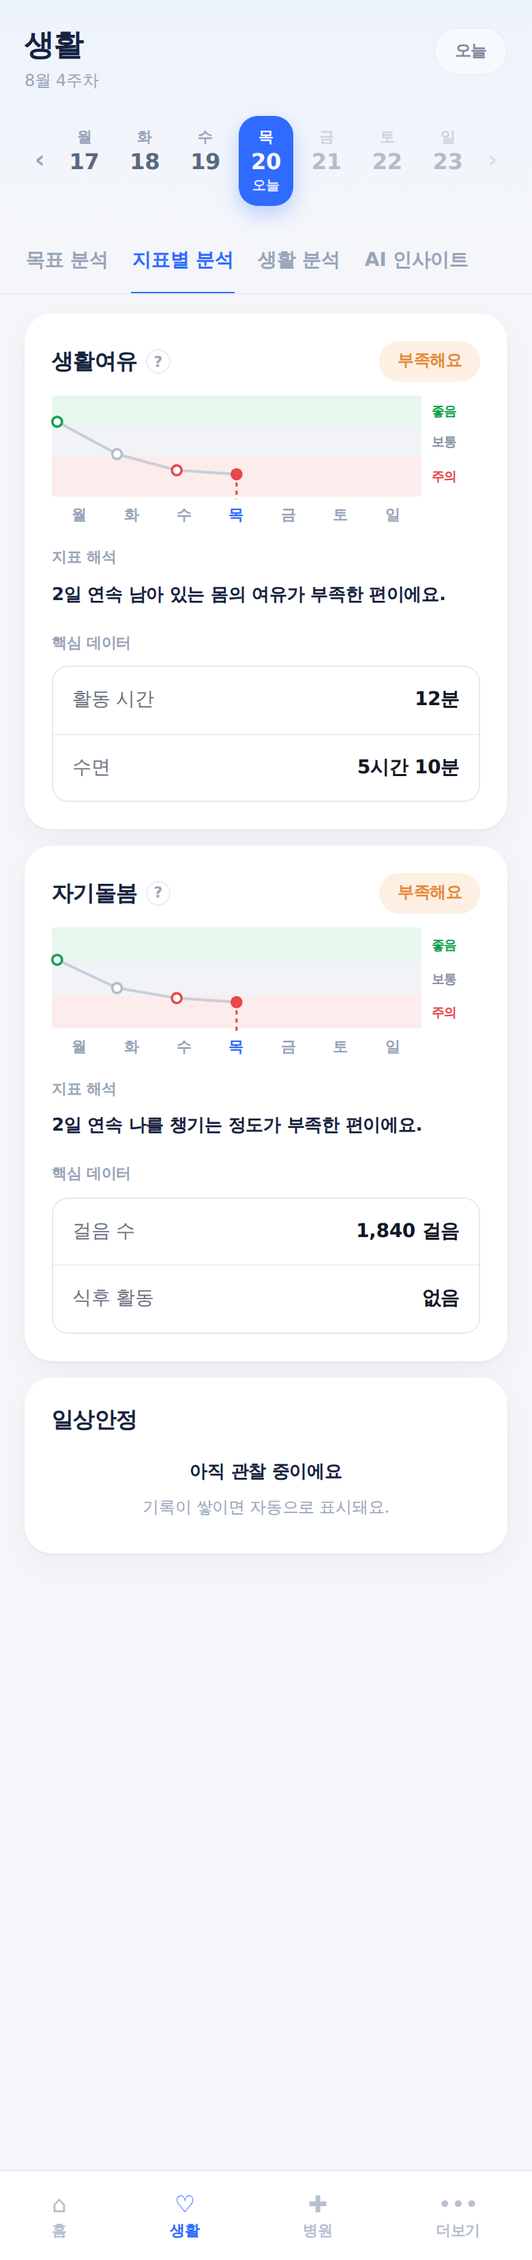
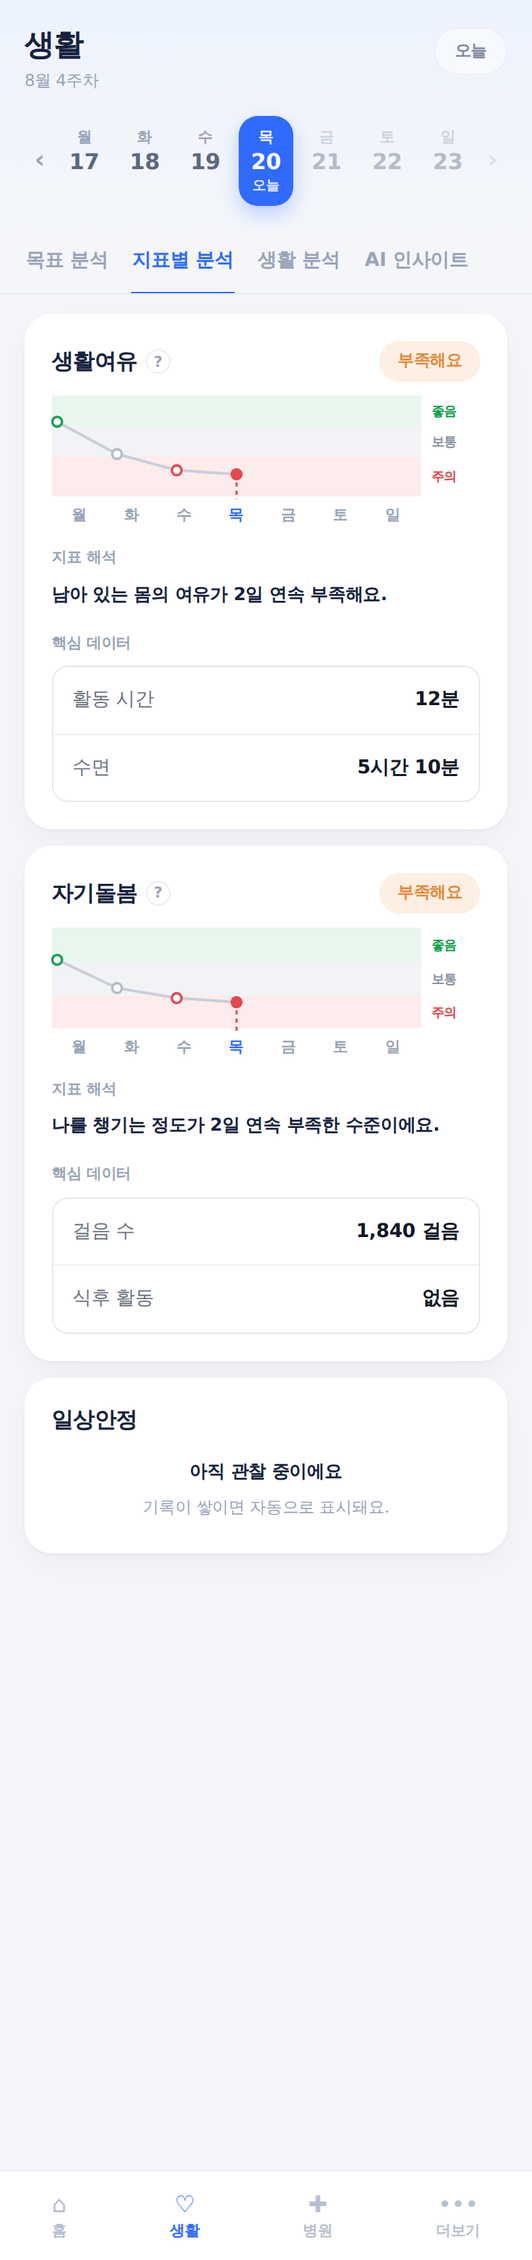
연속 문장을 '{주어} N일 연속 {서술}' 형태로 변경

diff --git a/wip-metric-rules.html b/wip-metric-rules.html
@@ -68,7 +68,7 @@ ul.rules.no li::before{content:'✕';color:var(--low)}
     <tr><th>상황</th><th>형식</th></tr>
     <tr><td class="k">전날 기록 없음</td><td><code>{상태}.</code></td></tr>
     <tr><td class="k">구간이 올라감 · 내려감</td><td><code>{이유} {변화}.</code></td></tr>
-    <tr><td class="k">같은 구간 2일 이상</td><td><code>{N}일 연속 {상태}.</code></td></tr>
+    <tr><td class="k">같은 구간 2일 이상</td><td><code>{주어} {N}일 연속 {서술}.</code> (예: 남아 있는 몸의 여유가 2일 연속 보통 수준이에요.)</td></tr>
     <tr><td class="k">주의 3일 이상</td><td><code>{이어진 이유 · N일 연속 이어지면서} {상태}.</code></td></tr>
   </table>
   <h3>함께 지키는 규칙</h3>
@@ -86,7 +86,7 @@ ul.rules.no li::before{content:'✕';color:var(--low)}
   </table>
   <table style="margin-top:8px">
     <tr><th>예 · 생활여유</th><th>전날 → 선택일</th><th>배지</th><th>해석</th></tr>
-    <tr><td class="k">점수만 오름</td><td>58점(보통) → 62점(보통)</td><td>보통</td><td>2일 연속 남아 있는 몸의 여유가 보통이에요.</td></tr>
+    <tr><td class="k">점수만 오름</td><td>58점(보통) → 62점(보통)</td><td>보통</td><td>남아 있는 몸의 여유가 2일 연속 보통 수준이에요.</td></tr>
     <tr><td class="k">구간이 바뀜</td><td>38점(주의) → 42점(보통)</td><td>보통</td><td>활동량이 늘어나면서 몸의 여유가 나아지고 있어요.</td></tr>
   </table>
   <ul class="rules" style="margin-top:6px">
@@ -196,20 +196,20 @@ ul.rules.no li::before{content:'✕';color:var(--low)}
       <p><span class="tag t-up">올라감</span>움직임이 하루에 고르게 나뉘면서 몸의 여유가 나아지고 있어요.</p>
       <p><span class="tag t-down">내려감</span>활동이 한때에 몰리면서 몸의 여유가 감소하고 있어요.</p>
       <p><span class="tag t-down">내려감</span>활동이 많아 부담이 커지면서 몸의 여유가 감소하고 있어요.</p>
-      <p><span class="tag t-same">같음</span>2일 연속 남아 있는 몸의 여유가 보통이에요.</p>
+      <p><span class="tag t-same">같음</span>남아 있는 몸의 여유가 2일 연속 보통 수준이에요.</p>
       <p><span class="tag t-same">주의 지속</span>수면이 짧은 날이 3일 연속 이어지면서 남아 있는 몸의 여유가 부족한 편이에요.</p>
     </div>
     <div><h4>자기돌봄</h4>
       <p><span class="tag t-up">올라감</span>식후 활동이 이어지면서 나를 챙기는 정도가 나아지고 있어요.</p>
       <p><span class="tag t-up">올라감</span>걸음 수가 늘어나면서 나를 챙기는 정도가 나아지고 있어요.</p>
       <p><span class="tag t-down">내려감</span>걸음 수가 줄어들면서 나를 챙기는 정도가 감소하고 있어요.</p>
-      <p><span class="tag t-same">같음</span>2일 연속 나를 챙기는 정도가 좋은 편이에요.</p>
+      <p><span class="tag t-same">같음</span>나를 챙기는 정도가 2일 연속 좋은 수준이에요.</p>
       <p><span class="tag t-same">주의 지속</span>식후 활동이 적은 날이 3일 연속 이어지면서 나를 챙기는 정도가 부족한 편이에요.</p>
     </div>
     <div><h4>일상안정</h4>
       <p><span class="tag t-up">올라감</span>걸음 수가 늘어나면서 일상의 균형이 나아지고 있어요.</p>
             <p><span class="tag t-down">내려감</span>걸음 수가 줄어들면서 일상의 균형이 흔들리고 있어요.</p>
-      <p><span class="tag t-same">같음</span>2일 연속 일상의 균형이 보통이에요.</p>
+      <p><span class="tag t-same">같음</span>일상의 균형이 2일 연속 보통 수준이에요.</p>
     </div>
   </div>
 </section>
@@ -219,11 +219,11 @@ ul.rules.no li::before{content:'✕';color:var(--low)}
   <h3>① 회복 중인 주 · 데이터</h3>
   <table><tr><th>요일</th><th>수면</th><th>활동 시간</th><th>활동 분산</th><th>걸음 수</th><th>식후 활동</th><th>취침 시각</th></tr><tr><td class="k">월</td><td>6시간 50분</td><td>30분</td><td>4칸 · 40%</td><td>6,900</td><td>걷기 1회</td><td>23:40</td></tr><tr><td class="k">화</td><td>5시간 40분</td><td>18분</td><td>2칸 · 70%</td><td>4,100</td><td>걷기 1회</td><td>00:50</td></tr><tr><td class="k">수</td><td>6시간 30분</td><td>34분</td><td>5칸 · 30%</td><td>7,800</td><td>조깅 1회</td><td>23:20</td></tr><tr><td class="k">목</td><td>7시간 23분</td><td>42분</td><td>6칸 · 25%</td><td>7,340</td><td>걷기 1회</td><td>23:10</td></tr></table>
   <h3>① 회복 중인 주 · 지표 해석</h3>
-  <table><tr><th>요일</th><th>생활여유</th><th>자기돌봄</th><th>일상안정</th></tr><tr><td class="k">월</td><td><span class="tag t-same">보통</span>남아 있는 몸의 여유가 보통이에요.</td><td><span class="tag t-same">보통</span>나를 챙기는 정도가 보통이에요.</td><td><span class="tag t-same">보통</span>일상의 균형이 보통이에요.</td></tr><tr><td class="k">화</td><td><span class="tag t-down">주의</span>수면 시간이 줄어들면서 몸의 여유가 감소하고 있어요.</td><td><span class="tag t-down">주의</span>걸음 수가 줄어들면서 나를 챙기는 정도가 감소하고 있어요.</td><td><span class="tag t-same">보통</span>2일 연속 일상의 균형이 보통이에요.</td></tr><tr><td class="k">수</td><td><span class="tag t-same">보통</span>움직임이 하루에 고르게 나뉘면서 몸의 여유가 나아지고 있어요.</td><td><span class="tag t-same">보통</span>걸음 수가 늘어나면서 나를 챙기는 정도가 나아지고 있어요.</td><td><span class="tag t-up">좋음</span>걸음 수가 늘어나면서 일상의 균형이 나아지고 있어요.</td></tr><tr><td class="k">목</td><td><span class="tag t-up">좋음</span>수면 시간이 늘어나면서 몸의 여유가 나아지고 있어요.</td><td><span class="tag t-same">보통</span>2일 연속 나를 챙기는 정도가 보통이에요.</td><td><span class="tag t-up">좋음</span>2일 연속 일상의 균형이 안정적인 편이에요.</td></tr></table>
+  <table><tr><th>요일</th><th>생활여유</th><th>자기돌봄</th><th>일상안정</th></tr><tr><td class="k">월</td><td><span class="tag t-same">보통</span>남아 있는 몸의 여유가 보통이에요.</td><td><span class="tag t-same">보통</span>나를 챙기는 정도가 보통이에요.</td><td><span class="tag t-same">보통</span>일상의 균형이 보통이에요.</td></tr><tr><td class="k">화</td><td><span class="tag t-down">주의</span>수면 시간이 줄어들면서 몸의 여유가 감소하고 있어요.</td><td><span class="tag t-down">주의</span>걸음 수가 줄어들면서 나를 챙기는 정도가 감소하고 있어요.</td><td><span class="tag t-same">보통</span>일상의 균형이 2일 연속 보통 수준이에요.</td></tr><tr><td class="k">수</td><td><span class="tag t-same">보통</span>움직임이 하루에 고르게 나뉘면서 몸의 여유가 나아지고 있어요.</td><td><span class="tag t-same">보통</span>걸음 수가 늘어나면서 나를 챙기는 정도가 나아지고 있어요.</td><td><span class="tag t-up">좋음</span>걸음 수가 늘어나면서 일상의 균형이 나아지고 있어요.</td></tr><tr><td class="k">목</td><td><span class="tag t-up">좋음</span>수면 시간이 늘어나면서 몸의 여유가 나아지고 있어요.</td><td><span class="tag t-same">보통</span>나를 챙기는 정도가 2일 연속 보통 수준이에요.</td><td><span class="tag t-up">좋음</span>일상의 균형이 2일 연속 안정적이에요.</td></tr></table>
   <h3>② 컨디션이 떨어진 주 · 데이터</h3>
   <table><tr><th>요일</th><th>수면</th><th>활동 시간</th><th>활동 분산</th><th>걸음 수</th><th>식후 활동</th><th>취침 시각</th></tr><tr><td class="k">월</td><td>7시간 12분</td><td>52분</td><td>5칸 · 30%</td><td>8,120</td><td>걷기 1회</td><td>23:10</td></tr><tr><td class="k">화</td><td>5시간 54분</td><td>26분</td><td>4칸 · 40%</td><td>4,260</td><td>없음</td><td>23:30</td></tr><tr><td class="k">수</td><td>5시간 18분</td><td>15분</td><td>2칸 · 70%</td><td>2,150</td><td>없음</td><td>00:40</td></tr><tr><td class="k">목</td><td>5시간 10분</td><td>12분</td><td>1칸 · 100%</td><td>1,840</td><td>없음</td><td>01:30</td></tr></table>
   <h3>② 컨디션이 떨어진 주 · 지표 해석</h3>
-  <table><tr><th>요일</th><th>생활여유</th><th>자기돌봄</th><th>일상안정</th></tr><tr><td class="k">월</td><td><span class="tag t-up">좋음</span>남아 있는 몸의 여유가 충분한 편이에요.</td><td><span class="tag t-up">좋음</span>나를 챙기는 정도가 좋은 편이에요.</td><td><span class="tag t-up">좋음</span>일상의 균형이 안정적인 편이에요.</td></tr><tr><td class="k">화</td><td><span class="tag t-same">보통</span>수면 시간이 줄어들면서 몸의 여유가 감소하고 있어요.</td><td><span class="tag t-same">보통</span>걸음 수가 줄어들면서 나를 챙기는 정도가 감소하고 있어요.</td><td><span class="tag t-same">보통</span>걸음 수가 줄어들면서 일상의 균형이 흔들리고 있어요.</td></tr><tr><td class="k">수</td><td><span class="tag t-down">주의</span>활동이 한때에 몰리면서 몸의 여유가 감소하고 있어요.</td><td><span class="tag t-down">주의</span>걸음 수가 줄어들면서 나를 챙기는 정도가 감소하고 있어요.</td><td><span class="tag t-down">주의</span>잠드는 시간이 불규칙해지면서 일상의 균형이 흔들리고 있어요.</td></tr><tr><td class="k">목</td><td><span class="tag t-down">주의</span>2일 연속 남아 있는 몸의 여유가 부족한 편이에요.</td><td><span class="tag t-down">주의</span>2일 연속 나를 챙기는 정도가 부족한 편이에요.</td><td><span class="tag t-down">주의</span>2일 연속 일상의 균형이 불안정한 편이에요.</td></tr></table>
+  <table><tr><th>요일</th><th>생활여유</th><th>자기돌봄</th><th>일상안정</th></tr><tr><td class="k">월</td><td><span class="tag t-up">좋음</span>남아 있는 몸의 여유가 충분한 편이에요.</td><td><span class="tag t-up">좋음</span>나를 챙기는 정도가 좋은 편이에요.</td><td><span class="tag t-up">좋음</span>일상의 균형이 안정적인 편이에요.</td></tr><tr><td class="k">화</td><td><span class="tag t-same">보통</span>수면 시간이 줄어들면서 몸의 여유가 감소하고 있어요.</td><td><span class="tag t-same">보통</span>걸음 수가 줄어들면서 나를 챙기는 정도가 감소하고 있어요.</td><td><span class="tag t-same">보통</span>걸음 수가 줄어들면서 일상의 균형이 흔들리고 있어요.</td></tr><tr><td class="k">수</td><td><span class="tag t-down">주의</span>활동이 한때에 몰리면서 몸의 여유가 감소하고 있어요.</td><td><span class="tag t-down">주의</span>걸음 수가 줄어들면서 나를 챙기는 정도가 감소하고 있어요.</td><td><span class="tag t-down">주의</span>잠드는 시간이 불규칙해지면서 일상의 균형이 흔들리고 있어요.</td></tr><tr><td class="k">목</td><td><span class="tag t-down">주의</span>남아 있는 몸의 여유가 2일 연속 부족해요.</td><td><span class="tag t-down">주의</span>나를 챙기는 정도가 2일 연속 부족한 수준이에요.</td><td><span class="tag t-down">주의</span>일상의 균형이 2일 연속 불안정해요.</td></tr></table>
   <h3>읽는 법</h3>
   <ul class="rules">
     <li>회복 주 수요일: 활동 분산 2칸 → 5칸 → ‘움직임이 하루에 고르게 나뉘면서’</li>
@@ -300,7 +300,7 @@ ul.rules.no li::before{content:'✕';color:var(--low)}
 4. cur == prev (구간 같음)
    N = 선택일부터 거꾸로 같은 band 가 이어진 날 수
        (none · 기록 없는 날에서 끊음, 지난 주까지 셈)
-   N ≥ 2 → "{N}일 연속 {상태}."
+   N ≥ 2 → "{주어} {N}일 연속 {연속 서술}." (예: 남아 있는 몸의 여유가 2일 연속 보통 수준이에요)
    cur == low 이고 N ≥ 3 →
      그 N일 동안 매일 '낮음'인 재료가 있으면
      "{재료} … N일 연속 이어지면서 {상태}." (앞의 'N일 연속'은 생략)
@@ -345,7 +345,7 @@ button.cnt.on{background:var(--brand);color:#fff;border-color:var(--brand)}
 </style>
 <script>
 (function(){
-const D={"생활여유": {"state": ["남아 있는 몸의 여유가 충분한 편이에요.", "남아 있는 몸의 여유가 보통이에요.", "남아 있는 몸의 여유가 부족한 편이에요."], "streak": ["N일 연속 남아 있는 몸의 여유가 충분한 편이에요.", "N일 연속 남아 있는 몸의 여유가 보통이에요.", "N일 연속 남아 있는 몸의 여유가 부족한 편이에요."], "lowr": ["수면이 짧은 날이 N일 연속 이어지면서 남아 있는 몸의 여유가 부족한 편이에요.", "활동량이 낮은 날이 N일 연속 이어지면서 남아 있는 몸의 여유가 부족한 편이에요.", "활동이 한때에 몰리는 날이 N일 연속 이어지면서 남아 있는 몸의 여유가 부족한 편이에요.", "활동이 많은 날이 N일 연속 이어지면서 남아 있는 몸의 여유가 부족한 편이에요."], "up": ["수면 시간이 늘어나면서 몸의 여유가 나아지고 있어요.", "활동량이 늘어나면서 몸의 여유가 나아지고 있어요.", "움직임이 하루에 고르게 나뉘면서 몸의 여유가 나아지고 있어요.", "몸의 여유가 나아지고 있어요. (이유 생략)"], "down": ["수면 시간이 줄어들면서 몸의 여유가 감소하고 있어요.", "활동량이 줄어들면서 몸의 여유가 감소하고 있어요.", "활동이 한때에 몰리면서 몸의 여유가 감소하고 있어요.", "활동이 많아 부담이 커지면서 몸의 여유가 감소하고 있어요.", "몸의 여유가 감소하고 있어요. (이유 생략)"]}, "자기돌봄": {"state": ["나를 챙기는 정도가 좋은 편이에요.", "나를 챙기는 정도가 보통이에요.", "나를 챙기는 정도가 부족한 편이에요."], "streak": ["N일 연속 나를 챙기는 정도가 좋은 편이에요.", "N일 연속 나를 챙기는 정도가 보통이에요.", "N일 연속 나를 챙기는 정도가 부족한 편이에요."], "lowr": ["걸음 수가 적은 날이 N일 연속 이어지면서 나를 챙기는 정도가 부족한 편이에요.", "식후 활동이 적은 날이 N일 연속 이어지면서 나를 챙기는 정도가 부족한 편이에요.", "오래 쉰 뒤 움직이지 않은 날이 N일 연속 이어지면서 나를 챙기는 정도가 부족한 편이에요.", "활동이 한때에 몰리는 날이 N일 연속 이어지면서 나를 챙기는 정도가 부족한 편이에요."], "up": ["걸음 수가 늘어나면서 나를 챙기는 정도가 나아지고 있어요.", "식후 활동이 이어지면서 나를 챙기는 정도가 나아지고 있어요.", "오래 쉬다가 다시 움직이면서 나를 챙기는 정도가 나아지고 있어요.", "움직임이 하루에 고르게 나뉘면서 나를 챙기는 정도가 나아지고 있어요.", "나를 챙기는 정도가 나아지고 있어요. (이유 생략)"], "down": ["걸음 수가 줄어들면서 나를 챙기는 정도가 감소하고 있어요.", "식후 활동이 줄어들면서 나를 챙기는 정도가 감소하고 있어요.", "오래 쉰 뒤 움직임이 줄어들면서 나를 챙기는 정도가 감소하고 있어요.", "활동이 한때에 몰리면서 나를 챙기는 정도가 감소하고 있어요.", "나를 챙기는 정도가 감소하고 있어요. (이유 생략)"]}, "일상안정": {"state": ["일상의 균형이 안정적인 편이에요.", "일상의 균형이 보통이에요.", "일상의 균형이 불안정한 편이에요."], "streak": ["N일 연속 일상의 균형이 안정적인 편이에요.", "N일 연속 일상의 균형이 보통이에요.", "N일 연속 일상의 균형이 불안정한 편이에요."], "lowr": ["걸음 수가 적은 날이 N일 연속 이어지면서 일상의 균형이 불안정한 편이에요.", "활동량이 낮은 날이 N일 연속 이어지면서 일상의 균형이 불안정한 편이에요.", "운동 공백이 N일 연속 이어지면서 일상의 균형이 불안정한 편이에요.", "식후 활동을 놓친 날이 N일 연속 이어지면서 일상의 균형이 불안정한 편이에요.", "움직이지 않은 날이 N일 연속 이어지면서 일상의 균형이 불안정한 편이에요.", "잠드는 시간이 불규칙한 날이 N일 연속 이어지면서 일상의 균형이 불안정한 편이에요."], "up": ["걸음 수가 늘어나면서 일상의 균형이 나아지고 있어요.", "활동량이 늘어나면서 일상의 균형이 나아지고 있어요.", "운동 시간이 늘어나면서 일상의 균형이 나아지고 있어요.", "이번 주 식후 활동을 챙긴 날이 늘면서 일상의 균형이 나아지고 있어요.", "움직인 날이 늘면서 일상의 균형이 나아지고 있어요.", "잠드는 시간이 일정해지면서 일상의 균형이 나아지고 있어요.", "일상의 균형이 나아지고 있어요. (이유 생략)"], "down": ["걸음 수가 줄어들면서 일상의 균형이 흔들리고 있어요.", "활동량이 줄어들면서 일상의 균형이 흔들리고 있어요.", "운동 시간이 줄어들면서 일상의 균형이 흔들리고 있어요.", "이번 주 식후 활동을 챙긴 날이 줄면서 일상의 균형이 흔들리고 있어요.", "움직이지 않은 날이 생기면서 일상의 균형이 흔들리고 있어요.", "잠드는 시간이 불규칙해지면서 일상의 균형이 흔들리고 있어요.", "일상의 균형이 흔들리고 있어요. (이유 생략)"]}};
+const D={"생활여유": {"state": ["남아 있는 몸의 여유가 충분한 편이에요.", "남아 있는 몸의 여유가 보통이에요.", "남아 있는 몸의 여유가 부족한 편이에요."], "streak": ["남아 있는 몸의 여유가 N일 연속 충분해요.", "남아 있는 몸의 여유가 N일 연속 보통 수준이에요.", "남아 있는 몸의 여유가 N일 연속 부족해요."], "lowr": ["수면이 짧은 날이 N일 연속 이어지면서 남아 있는 몸의 여유가 부족한 편이에요.", "활동량이 낮은 날이 N일 연속 이어지면서 남아 있는 몸의 여유가 부족한 편이에요.", "활동이 한때에 몰리는 날이 N일 연속 이어지면서 남아 있는 몸의 여유가 부족한 편이에요.", "활동이 많은 날이 N일 연속 이어지면서 남아 있는 몸의 여유가 부족한 편이에요."], "up": ["수면 시간이 늘어나면서 몸의 여유가 나아지고 있어요.", "활동량이 늘어나면서 몸의 여유가 나아지고 있어요.", "움직임이 하루에 고르게 나뉘면서 몸의 여유가 나아지고 있어요.", "몸의 여유가 나아지고 있어요. (이유 생략)"], "down": ["수면 시간이 줄어들면서 몸의 여유가 감소하고 있어요.", "활동량이 줄어들면서 몸의 여유가 감소하고 있어요.", "활동이 한때에 몰리면서 몸의 여유가 감소하고 있어요.", "활동이 많아 부담이 커지면서 몸의 여유가 감소하고 있어요.", "몸의 여유가 감소하고 있어요. (이유 생략)"]}, "자기돌봄": {"state": ["나를 챙기는 정도가 좋은 편이에요.", "나를 챙기는 정도가 보통이에요.", "나를 챙기는 정도가 부족한 편이에요."], "streak": ["나를 챙기는 정도가 N일 연속 좋은 수준이에요.", "나를 챙기는 정도가 N일 연속 보통 수준이에요.", "나를 챙기는 정도가 N일 연속 부족한 수준이에요."], "lowr": ["걸음 수가 적은 날이 N일 연속 이어지면서 나를 챙기는 정도가 부족한 편이에요.", "식후 활동이 적은 날이 N일 연속 이어지면서 나를 챙기는 정도가 부족한 편이에요.", "오래 쉰 뒤 움직이지 않은 날이 N일 연속 이어지면서 나를 챙기는 정도가 부족한 편이에요.", "활동이 한때에 몰리는 날이 N일 연속 이어지면서 나를 챙기는 정도가 부족한 편이에요."], "up": ["걸음 수가 늘어나면서 나를 챙기는 정도가 나아지고 있어요.", "식후 활동이 이어지면서 나를 챙기는 정도가 나아지고 있어요.", "오래 쉬다가 다시 움직이면서 나를 챙기는 정도가 나아지고 있어요.", "움직임이 하루에 고르게 나뉘면서 나를 챙기는 정도가 나아지고 있어요.", "나를 챙기는 정도가 나아지고 있어요. (이유 생략)"], "down": ["걸음 수가 줄어들면서 나를 챙기는 정도가 감소하고 있어요.", "식후 활동이 줄어들면서 나를 챙기는 정도가 감소하고 있어요.", "오래 쉰 뒤 움직임이 줄어들면서 나를 챙기는 정도가 감소하고 있어요.", "활동이 한때에 몰리면서 나를 챙기는 정도가 감소하고 있어요.", "나를 챙기는 정도가 감소하고 있어요. (이유 생략)"]}, "일상안정": {"state": ["일상의 균형이 안정적인 편이에요.", "일상의 균형이 보통이에요.", "일상의 균형이 불안정한 편이에요."], "streak": ["일상의 균형이 N일 연속 안정적이에요.", "일상의 균형이 N일 연속 보통 수준이에요.", "일상의 균형이 N일 연속 불안정해요."], "lowr": ["걸음 수가 적은 날이 N일 연속 이어지면서 일상의 균형이 불안정한 편이에요.", "활동량이 낮은 날이 N일 연속 이어지면서 일상의 균형이 불안정한 편이에요.", "운동 공백이 N일 연속 이어지면서 일상의 균형이 불안정한 편이에요.", "식후 활동을 놓친 날이 N일 연속 이어지면서 일상의 균형이 불안정한 편이에요.", "움직이지 않은 날이 N일 연속 이어지면서 일상의 균형이 불안정한 편이에요.", "잠드는 시간이 불규칙한 날이 N일 연속 이어지면서 일상의 균형이 불안정한 편이에요."], "up": ["걸음 수가 늘어나면서 일상의 균형이 나아지고 있어요.", "활동량이 늘어나면서 일상의 균형이 나아지고 있어요.", "운동 시간이 늘어나면서 일상의 균형이 나아지고 있어요.", "이번 주 식후 활동을 챙긴 날이 늘면서 일상의 균형이 나아지고 있어요.", "움직인 날이 늘면서 일상의 균형이 나아지고 있어요.", "잠드는 시간이 일정해지면서 일상의 균형이 나아지고 있어요.", "일상의 균형이 나아지고 있어요. (이유 생략)"], "down": ["걸음 수가 줄어들면서 일상의 균형이 흔들리고 있어요.", "활동량이 줄어들면서 일상의 균형이 흔들리고 있어요.", "운동 시간이 줄어들면서 일상의 균형이 흔들리고 있어요.", "이번 주 식후 활동을 챙긴 날이 줄면서 일상의 균형이 흔들리고 있어요.", "움직이지 않은 날이 생기면서 일상의 균형이 흔들리고 있어요.", "잠드는 시간이 불규칙해지면서 일상의 균형이 흔들리고 있어요.", "일상의 균형이 흔들리고 있어요. (이유 생략)"]}};
 const L={"state": "상태만 (전날 기록 없음)", "streak": "N일 연속 + 상태", "lowr": "주의 지속 + 이유", "up": "올라감", "down": "내려감"};
 const out=document.getElementById('setOut');
 function show(m,k){

diff --git a/prototype.html b/prototype.html
@@ -4448,6 +4448,12 @@ const DF_STATE = {
   selfcare:{good:'나를 챙기는 정도가 좋은 편이에요', mid:'나를 챙기는 정도가 보통이에요', low:'나를 챙기는 정도가 부족한 편이에요'},
   steady:  {good:'일상의 균형이 안정적인 편이에요', mid:'일상의 균형이 보통이에요', low:'일상의 균형이 불안정한 편이에요'}
 };
+/* 같은 구간이 이어질 때: 'N일 연속'을 서술어 앞에 둠 */
+const DF_STREAK = {
+  margin:  {good:'남아 있는 몸의 여유가 {N} 충분해요', mid:'남아 있는 몸의 여유가 {N} 보통 수준이에요', low:'남아 있는 몸의 여유가 {N} 부족해요'},
+  selfcare:{good:'나를 챙기는 정도가 {N} 좋은 수준이에요', mid:'나를 챙기는 정도가 {N} 보통 수준이에요', low:'나를 챙기는 정도가 {N} 부족한 수준이에요'},
+  steady:  {good:'일상의 균형이 {N} 안정적이에요', mid:'일상의 균형이 {N} 보통 수준이에요', low:'일상의 균형이 {N} 불안정해요'}
+};
 const DF_MOVE = {
   margin:  {up:'몸의 여유가 나아지고 있어요', down:'몸의 여유가 감소하고 있어요'},
   selfcare:{up:'나를 챙기는 정도가 나아지고 있어요', down:'나를 챙기는 정도가 감소하고 있어요'},
@@ -4579,7 +4585,7 @@ function dayFlow(k, scores, i, valFn, judgeFn){
   }
   /* 이유가 있으면 'N일 연속'을 이유 안에 넣음: '수면이 짧은 날이 N일 연속 이어지면서 ~' */
   if(why) return `${why.replace('이어지면서', lead+' 이어지면서')}${DF_STATE[k][cur]}.`;
-  return `${lead} ${DF_STATE[k][cur]}.`;
+  return `${DF_STREAK[k][cur].replace('{N}', lead)}.`;
 }
 function dfText(m, scores, i, valFn, judgeFn){
   const t = dayFlow(m.k, scores, i, valFn, judgeFn);
